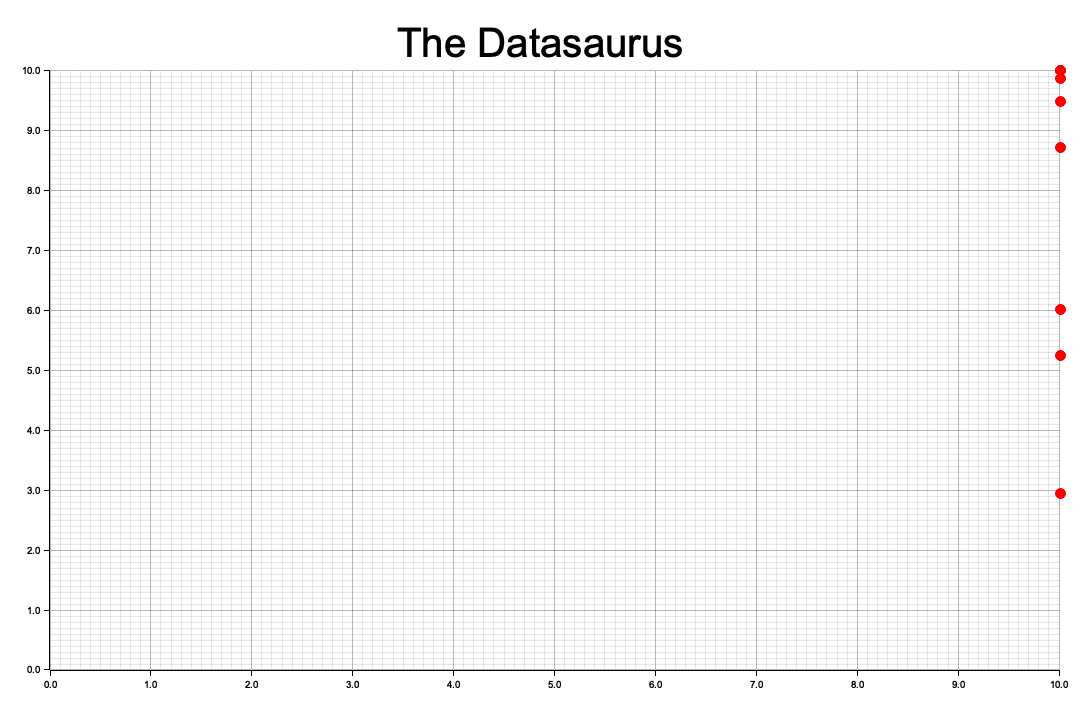
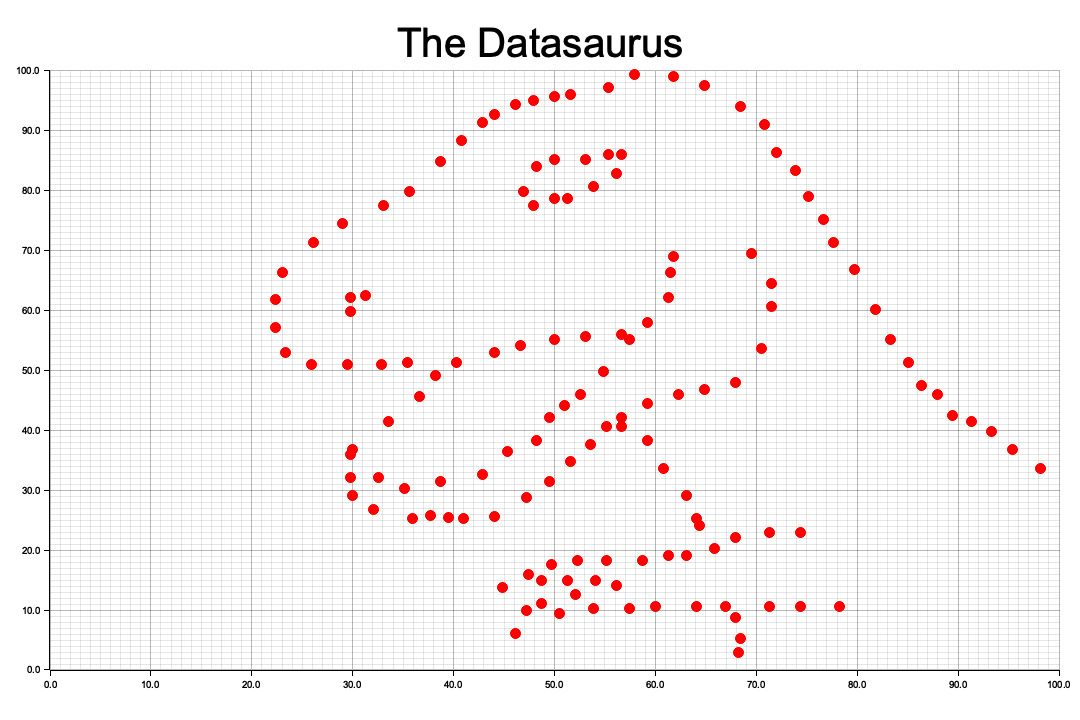
initial commit

diff --git a/src/plotters_scatter.rs b/src/plotters_scatter.rs
@@ -18,7 +18,7 @@ pub fn scatter_plot(
         .margin(20)
         .x_label_area_size(30)
         .y_label_area_size(30)
-        .build_cartesian_2d(0.0..10.0, 0.0..10.0)?;
+        .build_cartesian_2d(0.0..100.0, 0.0..100.0)?;
 
     // グリッド線とラベルの描画
     chart.configure_mesh().draw()?;
